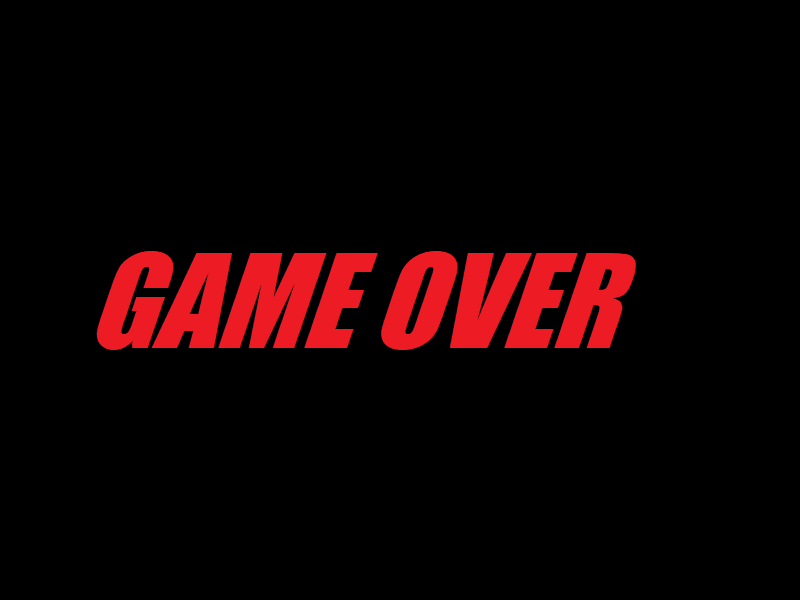
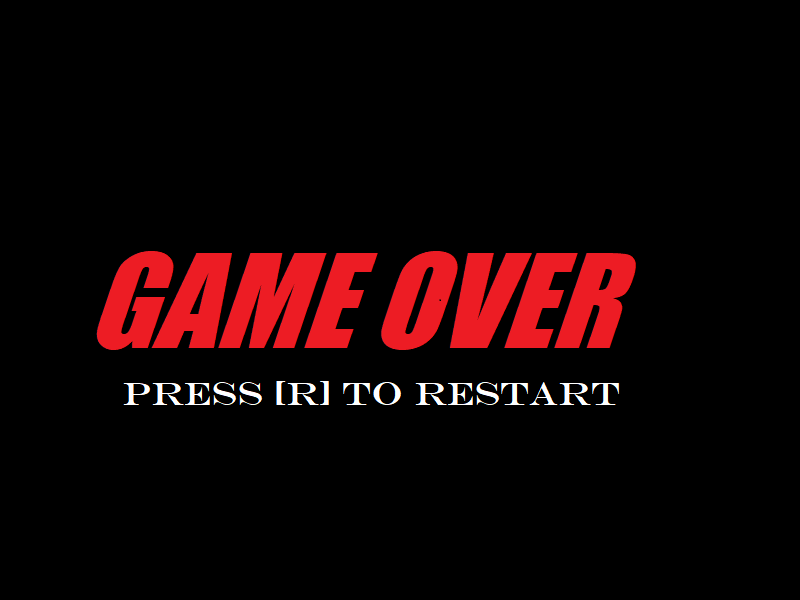
read.me

Changed region(s): [[0.1562, 0.63, 0.7812, 0.69]]

diff --git a/README.md b/README.md
@@ -1,0 +1,109 @@
+O jogo Space Invaders foi criado no Japão e ficou muito famoso na década de 90. Para a A2, nos inspiramos no jogo. Vale ressaltar que o criado não é igual ao original, é uma releitura. O programa foi criado inteiramente em Python utilizando a biblioteca Pygame.
+
+Separamos os objetos em classes. Cada classe foi separada por arquivos para facilitar o entendimento do código.
+
+## settings.py
+
+Onde estão definidas as configurações iniciais e essenciais do jogo, como o tamanho de tela e dois dicionários (um para cada tamnho de tela) com todas as imagens que serão usadas ao longo do jogo.
+
+## player_config.py 
+
+O arquivo recebe três atributos: imagem, coordenada X e Y, que definem sua posição. A imagem recebida é a skin da nave de configuração padrão, que pode ser alterada no menu opções que será falado posteriormente. Esta classe conta com seis métodos:
+
+### Movimento
+
+O movimento da nave é comandado pelo teclado do jogador. Para tanto, foi definida a variável ```keys = pygame.key.get_pressed()```, um objeto da biblioteca pygame. A partir disso, pode-se passar como índice a tecla que irá definir o movimento e se esta aconter, a ação que deverá ocorrer em seguida
+
+### change_position
+
+Muda a posição da nave quando ele se move
+
+### change_spawn
+
+Muda as configurações da nave quando o tamanho de tela aumenta
+
+### change_image
+
+Muda a skin da nave a partir da escolha do jogador
+
+### blit
+
+Faz a nave aparecer na tela
+
+## enemy.py
+
+A classe Enemy() recebe como atributos as imagens do inimigo, tanto a imagem padrão quanto sua imagem quando a dificuldade aumenta, suas coordenadas, seu estado e sua velocidade. Para ocorrer os eventos, a classe enemy tem alguns métodos:
+
+### change_skin
+
+Muda a skin do inimigo de acorodo com a escolha do jogador
+
+### change_skin_hard e change_skin_to_hard
+
+Ambos métodos servem para mudar a skin do inimigo quando a dificuldade aumenta
+
+### change_position
+
+Muda a posição do inimigo 
+
+### change_vel
+
+Muda a velocidade do inimigo, utilizada para quando há um aumento na dificuldade e o inimigo fica mais rápido
+
+### blit
+
+Faz o inimigo aparecer na tela
+
+## bullet.py
+
+Classe responsável pelo objeto bala, utilizado tanto para a nave quanto para o inimigo
+
+Apresenta os mesmos métodos anteriores com a adição do change_state, que muda seu estado ("fire" ou "stopped"); config_enemy_image que define a imagem da bala do inimigo e, por fim, o método fire, que muda o estado da bala para "fire" e a posiciona na tela
+
+### explosao.py
+
+Nesse arquivo foi definida a classe Explosao() que herda da classe sprite do pygame. Sua utilidade é fazer a animação da bomba, ativada quando ocorre a colisão do inimigo com a bala atirada pelo jogador
+
+### move.py
+
+Esse arquivo contém a classe Move() que define algumas funções importantes e mutáveis ao longo do jogo. Tem como metodo as colisões (```isCollision``` para colisão da bala da nave com o inimigo e ```coliep``` para colisão do inimigo com a nave e da bala do inimigo com a nave). Além disso, há ainda o metodo ```restart``` que define que, quando acionado, o modo do jogo volta para o menu o score zera. Este método é acionado na main quando ocorre o game over e o jogador aperta a tecla "r". Há ainda o método ```add_score``` que adiciona um ponto ao score, chamado na main quando há colisão da bala da nave com o inimigo. Ademais, há o método ```change_mode```, o qual iremos destacar
+
+### change_mode
+
+Define o modo do jogo. O jogo conta com nove modos, chamados de MENU, OPT, RES, CSS, NAVE, MONSTER, BALA, GAMEOVER, GAME  iremos falar a seguir de cada um destes:
+
+#### MENU
+
+A tela inicial do jogo
+
+### OPT
+
+A tela de opções, em que se pode escolher mudar a skin dos objetos e aumentar a tela
+
+### RES
+
+Se o jogador escolher aumentar a tela, ocorre este modo em que o jogador pode apertar 1 para aumenta a tela ou backspace para voltar a sua última tela
+
+### CSS
+
+Caso o jogador queira alterar a skin dos objetos, entra nesse modo em que é possível escolher qual objeto dejesa fazer a alteração
+
+### NAVE
+
+Se o jogador escolher mudar a skin da nave, ocorre esse modo em que uma tela com outras opções de skin para a nave irão aparecer, para selecionar, basta apertar o número correspondente e clicar em backspace para voltar
+
+### MONSTER
+
+Se o jogador escolhe mudar a skin do inimigo, esse modo é ativado e ele pode selecionar a skin escolhida dentre as opções, de forma análoga ao modo NAVE
+
+### BALA
+
+O mesmo ocorre para a bala, em que se esse modo for escolhido, o jogdador pode selecionar uma skin para a bala dentre as 
+
+### GAMEOVER
+
+Quando o jogador perde, ou seja, colide com o inimigo ou é atingido por uma bala deste, nesse modo pode-se pressionar a tecla "r" para reiniciar o jogo
+
+### GAME
+
+Modo em que o jogo acontece. Se ocorrer esre modo, ocorre o loop principal em que todos os eventos dentro do jogo são definidos
